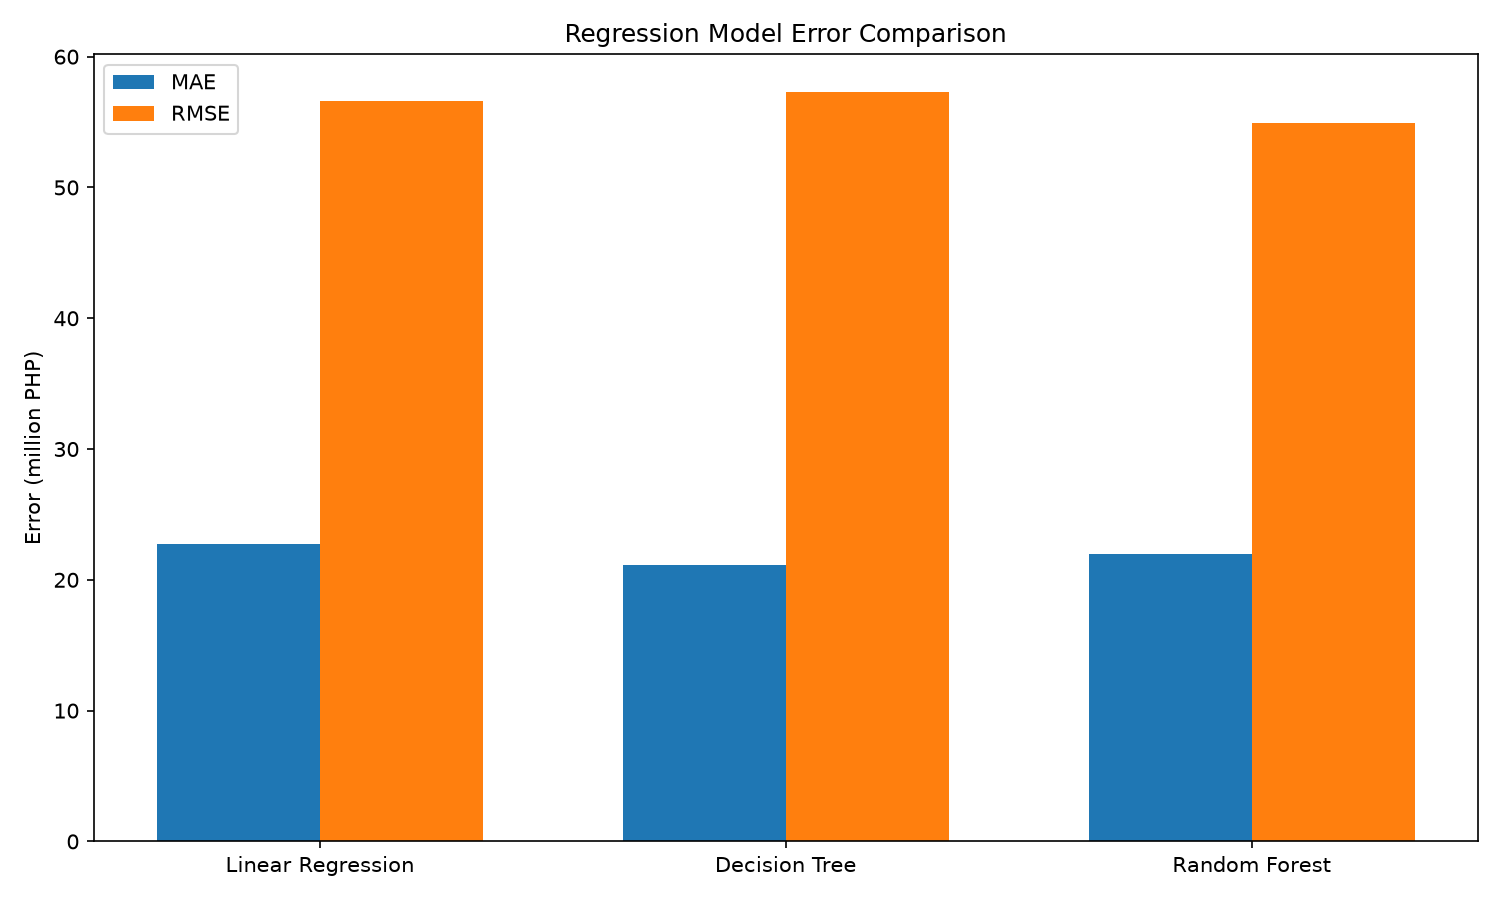
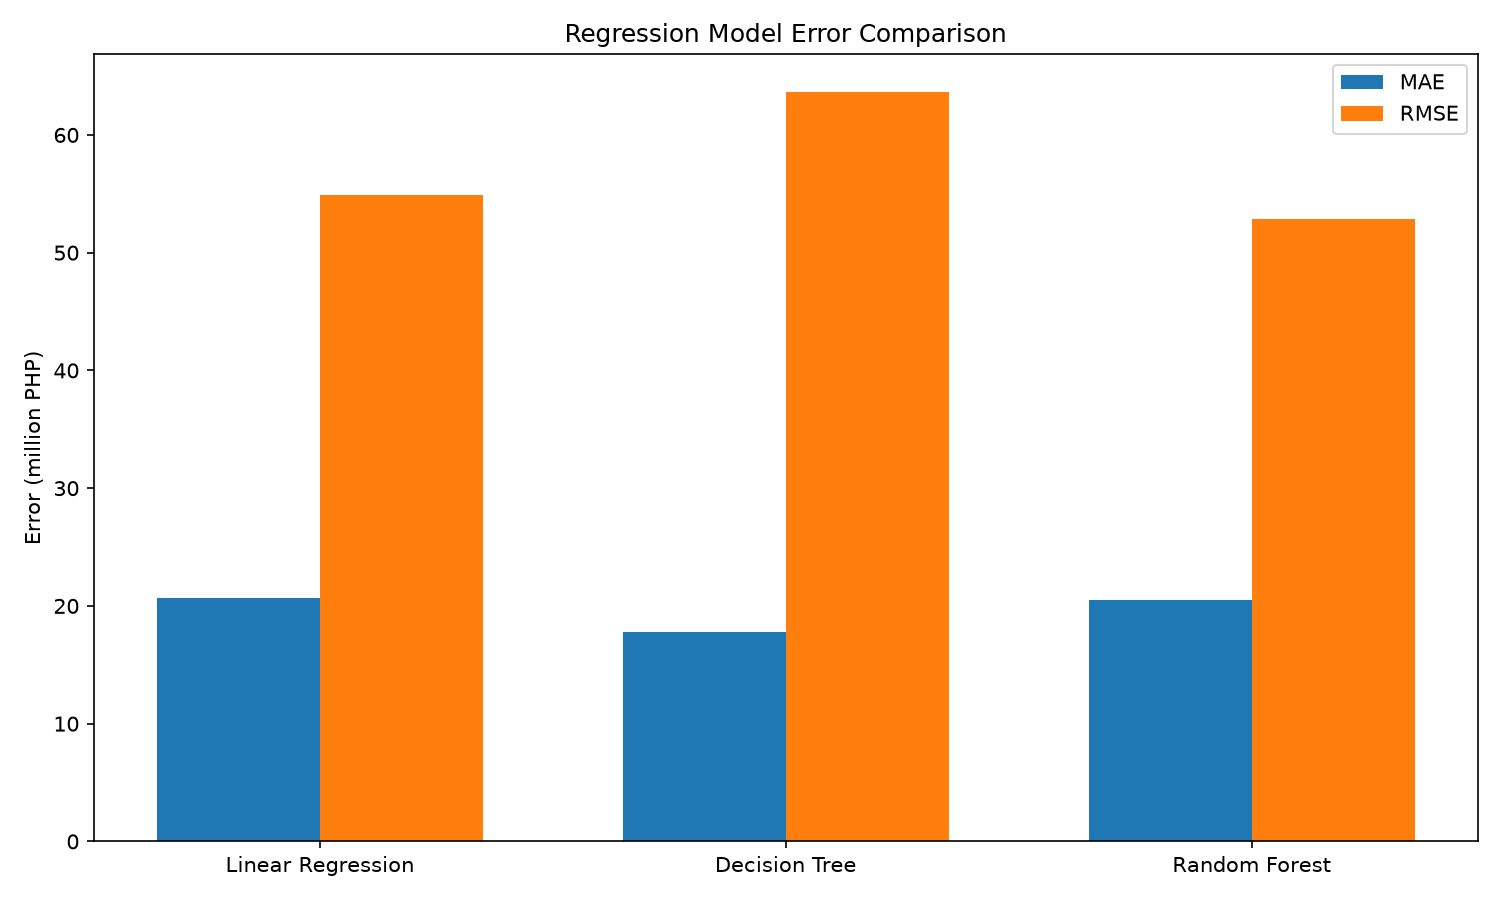
finalized model comparison and updated results

diff --git a/src/comparison.py b/src/comparison.py
@@ -112,8 +112,12 @@ def create_graphs(results, output_dir):
 
 
 def main():
-    # loads the shared dataset and converts it into NumPy arrays
-    X_train, y_train, X_test, y_test = prepare_data()
+    # prepares all 152 features using the original training and testing split
+    X_train, y_train, X_test, y_test = prepare_data(
+        include_description=True,
+        include_location=True,
+        include_funding=True
+    )
 
     X_train = np.asarray(X_train, dtype=float)
     X_test = np.asarray(X_test, dtype=float)
@@ -160,17 +164,18 @@ def main():
         y_test, tree_predictions
     )
 
-    # trains random forest using the verified hyperparameters
+    # trains random forest using the selected hyperparameters
     print("\nTraining Random Forest...")
     print("Trees: 5 | Depth: 8 | Min split: 20 | Min leaf: 10")
-    print("Features per split: 5 | Random state: 42")
+    print("Features per split: 30 | Random state: 42")
 
+    # uses 30 randomly selected features when searching for each split
     random_forest = RandomForestRegressor(
         n_trees=5,
         max_depth=8,
         min_samples_split=20,
         min_samples_leaf=10,
-        max_features=5,
+        max_features=30,
         random_state=42,
     )
 
